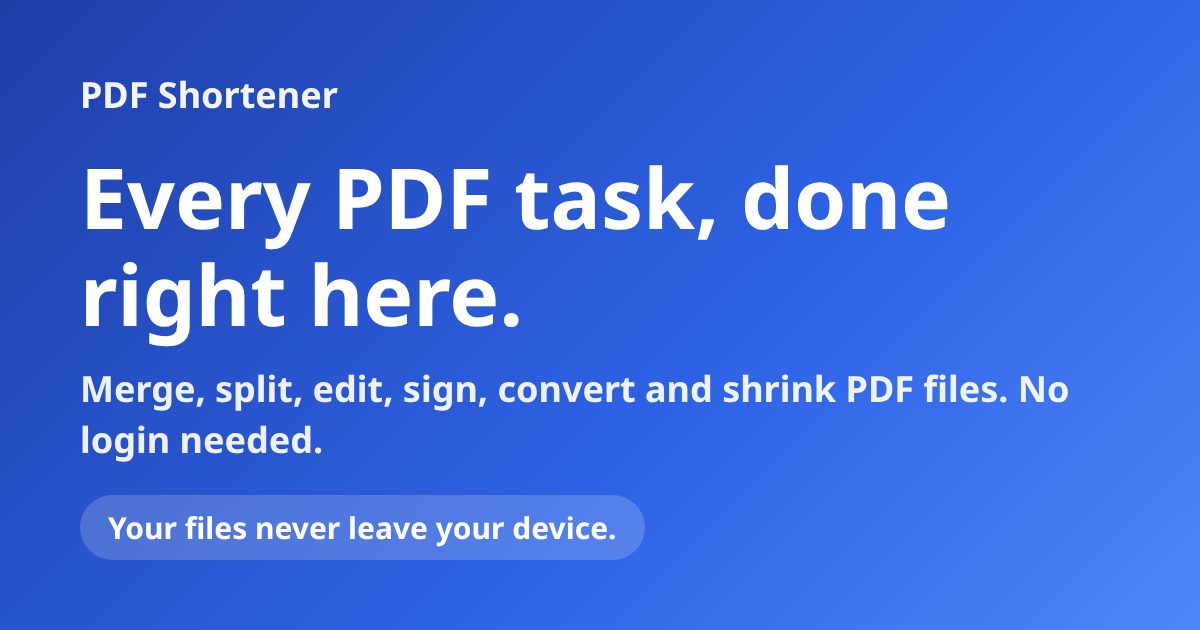
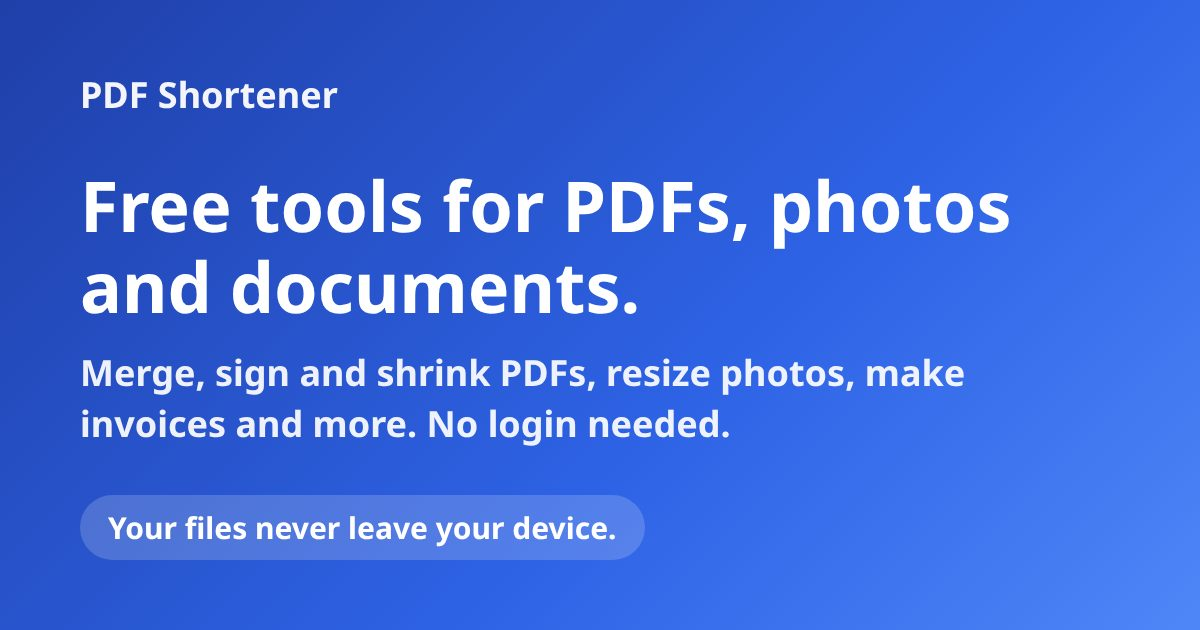
Update home and legal copy for the wider site, add group jump buttons
Claude-Session: https://claude.ai/code/session_01LbS36g3pbfEr9WfapJUUPS

Changed region(s): [[0.0617, 0.2413, 0.8942, 0.754]]

diff --git a/src/shared/i18n/hi.js b/src/shared/i18n/hi.js
@@ -4,8 +4,8 @@ export const hi = {
   "nav.home": "होम पेज पर जाएँ",
   "lang.other": "English",
   "lang.switchLabel": "भाषा बदलकर English करें",
-  "home.title": "हर PDF काम, बस यहीं।",
-  "home.subtitle": "PDF जोड़ें, अलग करें, एडिट करें, हस्ताक्षर करें, बदलें और छोटा करें। लॉगिन की ज़रूरत नहीं।",
+  "home.title": "PDF, फ़ोटो और दस्तावेज़ों के मुफ़्त टूल।",
+  "home.subtitle": "PDF जोड़ें, साइन करें और छोटा करें, फ़ोटो का साइज़ बदलें, इनवॉइस बनाएँ और बहुत कुछ। लॉगिन की ज़रूरत नहीं।",
   "home.privacy": "आपकी फ़ाइलें आपके डिवाइस से बाहर नहीं जातीं।",
   "home.toolsHeading": "टूल चुनें",
   "home.openTool": "{name} खोलें",
@@ -128,13 +128,13 @@ export const hi = {
   "privacy.title": "प्राइवेसी",
   "privacy.intro": "छोटी बात: हम आपकी फ़ाइलें कभी नहीं देखते।",
   "privacy.s1.h": "आपकी फ़ाइलें",
-  "privacy.s1.p": "PDF और फ़ोटो का सारा काम आपके ब्राउज़र में, आपके अपने डिवाइस पर होता है। आपकी फ़ाइलें हमें या किसी और को कभी अपलोड नहीं होतीं।",
+  "privacy.s1.p": "PDF, फ़ोटो, टेक्स्ट और आवाज़ का सारा काम आपके ब्राउज़र में, आपके अपने डिवाइस पर होता है। आपकी फ़ाइलें और लिखा हुआ टेक्स्ट हमें या किसी और को कभी अपलोड नहीं होते।",
   "privacy.s2.h": "आपके डिवाइस पर हम क्या रखते हैं",
   "privacy.s2.p": "हम आपकी भाषा की पसंद आपके ब्राउज़र की स्टोरेज में याद रखते हैं। वह आपके डिवाइस पर ही रहती है। हम उसका इस्तेमाल आपको ट्रैक करने के लिए नहीं करते।",
   "privacy.s3.h": "वेबसाइट होस्ट क्या देख सकता है",
   "privacy.s3.p": "यह वेबसाइट एक होस्टिंग कंपनी के ज़रिए चलती है। हर वेबसाइट की तरह, होस्ट सेवा को सुरक्षित और चालू रखने के लिए सामान्य तकनीकी रिकॉर्ड रख सकता है, जैसे आपका इंटरनेट पता और आपने कौन सा पेज खोला। इन रिकॉर्ड में आपकी फ़ाइलें नहीं होतीं।",
   "privacy.s4.h": "एनालिटिक्स और विज्ञापन",
-  "privacy.s4.p": "हम ऐसा कोई टूल इस्तेमाल नहीं करते जो आपकी फ़ाइलें देख सके। आपका हल्का या गहरा रूप और कुछ विकल्प (जैसे वॉटरमार्क का टेक्स्ट) आपके अपने डिवाइस पर सेव होते हैं ताकि साइट उन्हें याद रख सके। वे कहीं नहीं भेजे जाते, और हर पेज के नीचे का बटन उन्हें हटा देता है। विज्ञापन अभी बंद हैं। अगर हम उन्हें बाद में चालू करें, तो विज्ञापन कंपनियाँ कुकी इस्तेमाल कर सकती हैं, और हम पहले यह पेज बदलेंगे।",
+  "privacy.s4.p": "हम ऐसा कोई टूल इस्तेमाल नहीं करते जो आपकी फ़ाइलें देख सके। आपका हल्का या गहरा रूप, कुछ विकल्प (जैसे वॉटरमार्क का टेक्स्ट), आपके पसंदीदा और हाल में इस्तेमाल किए टूल, और \"सेव की हुई जानकारी\" में रखी आपकी जानकारी आपके अपने डिवाइस पर रहती है ताकि साइट उन्हें याद रख सके। वे कहीं नहीं भेजे जाते, और हर पेज के नीचे का बटन उन्हें हटा देता है। विज्ञापन अभी बंद हैं। अगर हम उन्हें बाद में चालू करें, तो विज्ञापन कंपनियाँ कुकी इस्तेमाल कर सकती हैं, और हम पहले यह पेज बदल देंगे।",
   "privacy.s5.h": "आपके विकल्प और बदलाव",
   "privacy.s5.p": "आप कभी भी अपने ब्राउज़र की स्टोरेज साफ़ करके अपनी भाषा की पसंद हटा सकते हैं। अगर हम यह पेज बदलें, तो नया रूप यहीं दिखेगा।",
   "terms.title": "इस्तेमाल की शर्तें",
@@ -154,9 +154,9 @@ export const hi = {
   "contact.s1.h": "ईमेल",
   "contact.s1.p": "नीचे दिए पते पर हमें लिखें। कृपया निजी फ़ाइलें न जोड़ें।",
   "contact.emailButton": "{email} को ईमेल करें",
-  "privacy.seoDesc": "{site} आपकी प्राइवेसी कैसे बचाता है: PDF का सारा काम आपके ब्राउज़र में होता है और आपकी फ़ाइलें कभी अपलोड नहीं होतीं।",
-  "terms.seoDesc": "{site} की इस्तेमाल की सरल शर्तें। यह ब्राउज़र में चलने वाले मुफ़्त PDF टूल का सेट है।",
-  "contact.seoDesc": "{site} से संपर्क करें: हमारे मुफ़्त PDF टूल के बारे में अपने सवाल, समस्या या सुझाव ईमेल से भेजें।",
+  "privacy.seoDesc": "{site} आपकी प्राइवेसी कैसे बचाता है: सारा काम आपके ब्राउज़र में होता है और आपकी फ़ाइलें कभी अपलोड नहीं होतीं।",
+  "terms.seoDesc": "{site} की इस्तेमाल की सरल शर्तें। यह ब्राउज़र में चलने वाले PDF, फ़ोटो और दस्तावेज़ टूल का मुफ़्त सेट है।",
+  "contact.seoDesc": "{site} से संपर्क करें: हमारे मुफ़्त टूल के बारे में अपने सवाल, समस्या या सुझाव ईमेल से भेजें।",
   "category.organize": "व्यवस्थित करें",
   "category.edit": "बदलाव करें",
   "category.sign": "भरें और साइन करें",
@@ -341,16 +341,16 @@ export const hi = {
   "nav.menu": "मेनू खोलें",
   "nav.menuClose": "मेनू बंद करें",
   "nav.mainLabel": "मुख्य मेनू",
-  "home.heroA": "हर PDF काम,",
-  "home.heroB": "बस यहीं।",
+  "home.heroA": "PDF, फ़ोटो और काग़ज़ात,",
+  "home.heroB": "सब यहीं।",
   "home.eyebrow": "तेज़, मुफ़्त और निजी",
   "home.kicker": "{count} टूल, {groups} समूहों में",
-  "home.allTools": "सभी PDF टूल",
+  "home.allTools": "सभी टूल",
   "home.toolsText": "टूल चुनें, अपनी फ़ाइल जोड़ें और नतीजा डाउनलोड करें। सब कुछ आपके डिवाइस पर होता है।",
   "trust.browser": "आपके ब्राउज़र में चलता है",
   "trust.noLogin": "खाते की ज़रूरत नहीं",
   "trust.free": "इस्तेमाल मुफ़्त",
-  "footer.tagline": "सरल PDF टूल जो आपके डिवाइस पर चलते हैं।",
+  "footer.tagline": "PDF, फ़ोटो और दस्तावेज़ों के सरल टूल जो आपके डिवाइस पर चलते हैं।",
   "footer.copy": "© {year} {site}",
   "drop.private": "आपकी फ़ाइल आपके डिवाइस पर ही रहती है।",
   "progress.keepOpen": "कृपया यह टैब खुला रखें।",
@@ -1748,6 +1748,7 @@ export const hi = {
   "help.s7.p": "कंप्यूटर पर यह Downloads फ़ोल्डर में होता है। Android फ़ोन पर Files, फिर Downloads में देखें। iPhone पर Files ऐप, फिर Downloads में देखें (Safari स्क्रीन के ऊपर डाउनलोड का तीर भी दिखा सकता है)। कुछ डाउनलोड न हो तो अपने ब्राउज़र की सेटिंग में इस साइट के लिए डाउनलोड की अनुमति दें।",
   "help.s8.h": "शॉर्टकट और फ़ाइल चिपकाना",
   "help.s8.p": "होम पेज पर खोज वाले बॉक्स में जाने के लिए / कुंजी दबाएँ। टूल पेज पर अपने फ़ाइल मैनेजर में फ़ाइल कॉपी करें और जोड़ने के लिए Ctrl+V (Mac पर Cmd+V) दबाएँ, बशर्ते आप किसी बॉक्स में टाइप न कर रहे हों। हर टूल पेज का सितारा उसे होम पेज के \"आपके पसंदीदा\" में रखता है। होम पेज हाल में इस्तेमाल किए टूल भी दिखाता है। यह सब आपके डिवाइस पर रहता है और नीचे \"मेरी सेटिंग भूल जाएँ\" बटन उसे हटा देता है।",
+  "home.jump": "टूल के समूह पर जाएँ",
   "tool.merge.name": "PDF जोड़ें",
   "tool.merge.desc": "कई PDF फ़ाइलों को एक PDF में जोड़ें।",
   "tool.merge.step1": "दो या ज़्यादा PDF फ़ाइलें जोड़ें।",

diff --git a/src/shared/i18n/en.js b/src/shared/i18n/en.js
@@ -4,8 +4,8 @@ export const en = {
   "nav.home": "Go to the home page",
   "lang.other": "हिन्दी",
   "lang.switchLabel": "Change language to Hindi",
-  "home.title": "Every PDF task, done right here.",
-  "home.subtitle": "Merge, split, edit, sign, convert and shrink PDF files. No login needed.",
+  "home.title": "Free tools for PDFs, photos and documents.",
+  "home.subtitle": "Merge, sign and shrink PDFs, resize photos, make invoices and more. No login needed.",
   "home.privacy": "Your files never leave your device.",
   "home.toolsHeading": "Choose a tool",
   "home.openTool": "Open {name}",
@@ -128,13 +128,13 @@ export const en = {
   "privacy.title": "Privacy",
   "privacy.intro": "Short version: we never see your files.",
   "privacy.s1.h": "Your files",
-  "privacy.s1.p": "All PDF and picture work happens inside your browser, on your own device. Your files are never uploaded to us or to anyone else.",
+  "privacy.s1.p": "All PDF, picture, text and sound work happens inside your browser, on your own device. Your files and typed text are never uploaded to us or to anyone else.",
   "privacy.s2.h": "What we keep on your device",
   "privacy.s2.p": "We remember your language choice in your browser's storage. It stays on your device. We do not use it to follow you.",
   "privacy.s3.h": "What the website host can see",
   "privacy.s3.p": "This website is delivered by a hosting company. Like any website, the host may keep normal technical records, such as your internet address and which page you opened, to keep the service safe and running. These records do not contain your files.",
   "privacy.s4.h": "Analytics and adverts",
-  "privacy.s4.p": "We do not use any tool that can see your files. Your light or dark choice and some options (like watermark text) are saved on your own device so the site can remember them. They are never sent anywhere, and the button at the bottom of every page removes them. Adverts are switched off at the moment. If we turn them on later, advert companies may use cookies, and we will update this page first.",
+  "privacy.s4.p": "We do not use any tool that can see your files. Your light or dark choice and some options (like watermark text), your favourite and recently used tools, and any details you save in Saved Details are kept on your own device so the site can remember them. They are never sent anywhere, and the button at the bottom of every page removes them. Adverts are switched off at the moment. If we turn them on later, advert companies may use cookies, and we will update this page first.",
   "privacy.s5.h": "Your choices and changes",
   "privacy.s5.p": "You can clear your browser storage at any time to remove your language choice. If we change this page, the new version will be shown here.",
   "terms.title": "Terms of use",
@@ -154,9 +154,9 @@ export const en = {
   "contact.s1.h": "Email",
   "contact.s1.p": "Write to us at the address below. Please do not attach private files.",
   "contact.emailButton": "Email {email}",
-  "privacy.seoDesc": "How {site} protects your privacy: all PDF work happens in your browser and your files are never uploaded.",
-  "terms.seoDesc": "The simple terms of use for {site}, a free set of PDF tools that run in your browser.",
-  "contact.seoDesc": "Contact {site}: send an email with your questions, problems or ideas about our free PDF tools.",
+  "privacy.seoDesc": "How {site} protects your privacy: all work happens in your browser and your files are never uploaded.",
+  "terms.seoDesc": "The simple terms of use for {site}, a free set of PDF, photo and document tools that run in your browser.",
+  "contact.seoDesc": "Contact {site}: send an email with your questions, problems or ideas about our free tools.",
   "category.organize": "Organize",
   "category.edit": "Edit",
   "category.sign": "Fill & Sign",
@@ -341,16 +341,16 @@ export const en = {
   "nav.menu": "Open menu",
   "nav.menuClose": "Close menu",
   "nav.mainLabel": "Main menu",
-  "home.heroA": "Every PDF task,",
-  "home.heroB": "done right here.",
+  "home.heroA": "PDFs, photos and papers,",
+  "home.heroB": "sorted right here.",
   "home.eyebrow": "Fast, free and private",
   "home.kicker": "{count} tools in {groups} groups",
-  "home.allTools": "All PDF tools",
+  "home.allTools": "All tools",
   "home.toolsText": "Pick a tool, add your file and download the result. Everything happens on your device.",
   "trust.browser": "Works in your browser",
   "trust.noLogin": "No account needed",
   "trust.free": "Free to use",
-  "footer.tagline": "Simple PDF tools that run on your device.",
+  "footer.tagline": "Simple tools for PDFs, photos and documents that run on your device.",
   "footer.copy": "© {year} {site}",
   "drop.private": "Your file stays on your device.",
   "progress.keepOpen": "Please keep this tab open.",
@@ -1748,6 +1748,7 @@ export const en = {
   "help.s7.p": "On a computer it is in the Downloads folder. On an Android phone, look in Files, then Downloads. On an iPhone, look in the Files app, then Downloads (Safari may also show a download arrow at the top of the screen). If nothing downloads, allow downloads for this site in your browser settings.",
   "help.s8.h": "Shortcuts and pasting a file",
   "help.s8.p": "On the home page, press the / key to jump to the search box. On a tool page, copy a file in your file manager and press Ctrl+V (Cmd+V on a Mac) to add it, as long as you are not typing in a box. The star on each tool page saves it to Your favourites on the home page. The home page also shows the tools you used lately. All of this stays on your device and the Forget my settings button in the footer removes it.",
+  "home.jump": "Jump to a group of tools",
   "tool.merge.name": "Merge PDF",
   "tool.merge.desc": "Join many PDF files into one.",
   "tool.merge.step1": "Add two or more PDF files.",

diff --git a/src/styles/text.css b/src/styles/text.css
@@ -73,3 +73,8 @@
 .fav-button { display: inline-flex; align-items: center; gap: 0.4rem; min-height: 52px; padding: 0 1rem; margin-top: 0.5rem; border: 1px solid var(--dash); border-radius: 999px; background: var(--surface); color: var(--primary-dark); cursor: pointer; }
 .fav-button[aria-pressed="true"] { background: var(--pale); font-weight: 700; }
 .fav-button[aria-pressed="true"] svg { fill: currentColor; }
+.category-jump { display: flex; flex-wrap: wrap; gap: 0.5rem; margin: 0 0 1.5rem; }
+.category-jump a { display: inline-flex; align-items: center; min-height: 52px; padding: 0 1rem; border: 1px solid var(--dash); border-radius: 999px; background: var(--surface); color: var(--primary-dark); text-decoration: none; }
+.category-jump a:hover { background: var(--pale); }
+html { scroll-behavior: smooth; }
+@media (prefers-reduced-motion: reduce) { html { scroll-behavior: auto; } }

diff --git a/src/features/home/HomePage.jsx b/src/features/home/HomePage.jsx
@@ -41,6 +41,11 @@ export function HomePage() {
           </div>
           <p>{t('home.toolsText')}</p>
         </div>
+        {query.trim() ? null : (
+          <nav className="category-jump" aria-label={t('home.jump')}>
+            {groupByCategory(tools).map(({ category }) => <a key={category} href={`#group-${category}`}>{t(`category.${category}`)}</a>)}
+          </nav>
+        )}
         {query.trim() ? null : <ToolRows />}
         {found.length === 0 ? <p className="no-results" role="status">{t('search.none')}</p> : null}
         {groupByCategory(found).map(({ category, tools: group }) => (

diff --git a/scripts/pwa.js b/scripts/pwa.js
@@ -13,7 +13,7 @@ export function buildManifest(name) {
   return {
     name,
     short_name: name.length > 12 ? name.slice(0, 12) : name,
-    description: 'Free PDF tools that run in your browser. Your files never leave your device.',
+    description: 'Free tools for PDFs, photos and documents that run in your browser. Your files never leave your device.',
     start_url: '/',
     scope: '/',
     display: 'standalone',

diff --git a/docs/11-seo-growth.md b/docs/11-seo-growth.md
@@ -13,7 +13,7 @@ Nobody can promise a Google ranking. This list does the honest things that help:
 
 ## Before launch (you must do these)
 1. Set `siteUrl` (your real address, no slash at the end) and `contactEmail` in `src/config.js`. Every canonical link, sitemap address and share picture address uses `siteUrl`. If it still says example.com, search engines will ignore the site.
-2. Decide the site name. It is in `src/config.js` only. The home text still says "PDF" everywhere; the site now has image, text, calculator and document tools too.
+2. The site name "PDF Shortener" is in `src/config.js` only. The home text now says the site is for PDFs, photos and documents. If you want a broader name, change it there and run `node scripts/makeShareImages.js`.
 3. Deploy (docs/05-deploy.md). Open `https://yoursite/sitemap.xml` and `https://yoursite/robots.txt` to check they load.
 4. Have Privacy and Terms checked by a lawyer (docs/10-legal.md).
 

diff --git a/docs/CHANGELOG.md b/docs/CHANGELOG.md
@@ -142,3 +142,6 @@
 - Home page rows "Your favourites" and "Used lately" (star button on each tool page), stored on the device and removed by Forget my settings.
 - Press / on the home page to search; paste a copied file with Ctrl+V or Cmd+V on tool pages.
 - Help page (/help) in English and Hindi. The 16 guides were already in Hindi.
+
+## Copy polish
+- Home headline, subtitle, footer line, app description, privacy and terms descriptions now say PDFs, photos and documents (not PDF only). Group jump buttons on the home page. Share pictures redrawn.

diff --git a/README.md b/README.md
@@ -1,6 +1,6 @@
-# ClearPDF
+# PDF Shortener
 
-Free PDF tools (25 of them) that run fully in the browser. Files never leave the user's device. No login, no backend.
+Free tools for PDFs, photos, text and documents (about 130 of them) that run fully in the browser, in English and Hindi. Files never leave the user's device. No login, no backend.
 
 ## Commands
 - `npm install` - install the parts the site needs
